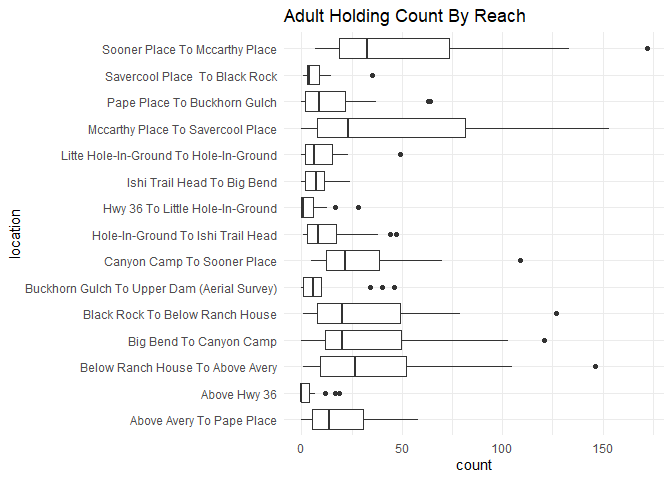
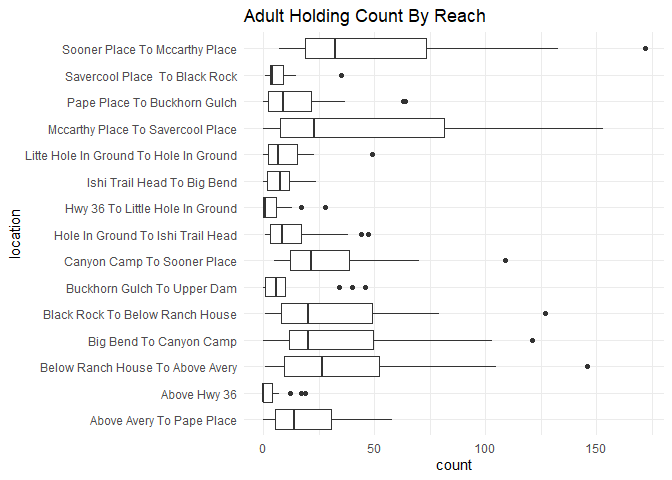
edited locations

diff --git a/scripts/mill-creek-adult-holding-survey/mill-creek-adult-holding-survey-qc-checklist.md b/scripts/mill-creek-adult-holding-survey/mill-creek-adult-holding-survey-qc-checklist.md
@@ -148,40 +148,29 @@ cleaner_data <- raw_data %>%
 
 ``` r
 cleaner_data$location = str_to_title(cleaner_data$location)
+cleaner_data <- cleaner_data %>%
+  mutate(location = gsub("-", " ", location),
+         location = if_else(location == "Buckhorn Gulch To Upper Dam (Aerial Survey)", "Buckhorn Gulch To Upper Dam", location ))
 table(cleaner_data$location)
 ```
 
     ## 
-    ##                   Above Avery To Pape Place 
-    ##                                          24 
-    ##                                Above Hwy 36 
-    ##                                          24 
-    ##            Below Ranch House To Above Avery 
-    ##                                          24 
-    ##                     Big Bend To Canyon Camp 
-    ##                                          24 
-    ##             Black Rock To Below Ranch House 
-    ##                                          24 
-    ## Buckhorn Gulch To Upper Dam (Aerial Survey) 
-    ##                                          24 
-    ##                 Canyon Camp To Sooner Place 
-    ##                                          24 
-    ##           Hole-In-Ground To Ishi Trail Head 
-    ##                                          24 
-    ##             Hwy 36 To Little Hole-In-Ground 
-    ##                                          24 
-    ##                 Ishi Trail Head To Big Bend 
-    ##                                          24 
-    ##      Litte Hole-In-Ground To Hole-In-Ground 
-    ##                                          24 
-    ##           Mccarthy Place To Savercool Place 
-    ##                                          24 
-    ##                Pape Place To Buckhorn Gulch 
-    ##                                          24 
-    ##              Savercool Place  To Black Rock 
-    ##                                          24 
-    ##              Sooner Place To Mccarthy Place 
-    ##                                          24
+    ##              Above Avery To Pape Place                           Above Hwy 36 
+    ##                                     24                                     24 
+    ##       Below Ranch House To Above Avery                Big Bend To Canyon Camp 
+    ##                                     24                                     24 
+    ##        Black Rock To Below Ranch House            Buckhorn Gulch To Upper Dam 
+    ##                                     24                                     24 
+    ##            Canyon Camp To Sooner Place      Hole In Ground To Ishi Trail Head 
+    ##                                     24                                     24 
+    ##        Hwy 36 To Little Hole In Ground            Ishi Trail Head To Big Bend 
+    ##                                     24                                     24 
+    ## Litte Hole In Ground To Hole In Ground      Mccarthy Place To Savercool Place 
+    ##                                     24                                     24 
+    ##           Pape Place To Buckhorn Gulch         Savercool Place  To Black Rock 
+    ##                                     24                                     24 
+    ##         Sooner Place To Mccarthy Place 
+    ##                                     24
 
 **NA and Unknown Values**
 
@@ -287,28 +276,28 @@ gcs_upload(mill_adult_holding_survey,
            name = "adult-holding-redd-and-carcass-surveys/mill-creek/data/mill_adult_holding_survey.csv")
 ```
 
-    ## i 2021-11-01 16:23:52 > File size detected as  14.8 Kb
+    ## i 2021-11-02 10:28:43 > File size detected as  14.5 Kb
 
-    ## i 2021-11-01 16:23:53 > Request Status Code:  400
+    ## i 2021-11-02 10:28:44 > Request Status Code:  400
 
     ## ! API returned: Cannot insert legacy ACL for an object when uniform bucket-level access is enabled. Read more at https://cloud.google.com/storage/docs/uniform-bucket-level-access - Retrying with predefinedAcl='bucketLevel'
 
-    ## i 2021-11-01 16:23:53 > File size detected as  14.8 Kb
+    ## i 2021-11-02 10:28:44 > File size detected as  14.5 Kb
 
     ## ==Google Cloud Storage Object==
     ## Name:                adult-holding-redd-and-carcass-surveys/mill-creek/data/mill_adult_holding_survey.csv 
     ## Type:                csv 
-    ## Size:                14.8 Kb 
-    ## Media URL:           https://www.googleapis.com/download/storage/v1/b/jpe-dev-bucket/o/adult-holding-redd-and-carcass-surveys%2Fmill-creek%2Fdata%2Fmill_adult_holding_survey.csv?generation=1635809031838958&alt=media 
+    ## Size:                14.5 Kb 
+    ## Media URL:           https://www.googleapis.com/download/storage/v1/b/jpe-dev-bucket/o/adult-holding-redd-and-carcass-surveys%2Fmill-creek%2Fdata%2Fmill_adult_holding_survey.csv?generation=1635874123296105&alt=media 
     ## Download URL:        https://storage.cloud.google.com/jpe-dev-bucket/adult-holding-redd-and-carcass-surveys%2Fmill-creek%2Fdata%2Fmill_adult_holding_survey.csv 
     ## Public Download URL: https://storage.googleapis.com/jpe-dev-bucket/adult-holding-redd-and-carcass-surveys%2Fmill-creek%2Fdata%2Fmill_adult_holding_survey.csv 
     ## Bucket:              jpe-dev-bucket 
-    ## ID:                  jpe-dev-bucket/adult-holding-redd-and-carcass-surveys/mill-creek/data/mill_adult_holding_survey.csv/1635809031838958 
-    ## MD5 Hash:            gm8eDGy5gBljUOlcnYmM9w== 
+    ## ID:                  jpe-dev-bucket/adult-holding-redd-and-carcass-surveys/mill-creek/data/mill_adult_holding_survey.csv/1635874123296105 
+    ## MD5 Hash:            XJB68WbwVJxACxP1cUP5Mg== 
     ## Class:               STANDARD 
-    ## Created:             2021-11-01 23:23:51 
-    ## Updated:             2021-11-01 23:23:51 
-    ## Generation:          1635809031838958 
+    ## Created:             2021-11-02 17:28:43 
+    ## Updated:             2021-11-02 17:28:43 
+    ## Generation:          1635874123296105 
     ## Meta Generation:     1 
-    ## eTag:                CO65jcKn+PMCEAE= 
-    ## crc32c:              TjJEuA==
+    ## eTag:                COnakICa+vMCEAE= 
+    ## crc32c:              XbBhGA==
